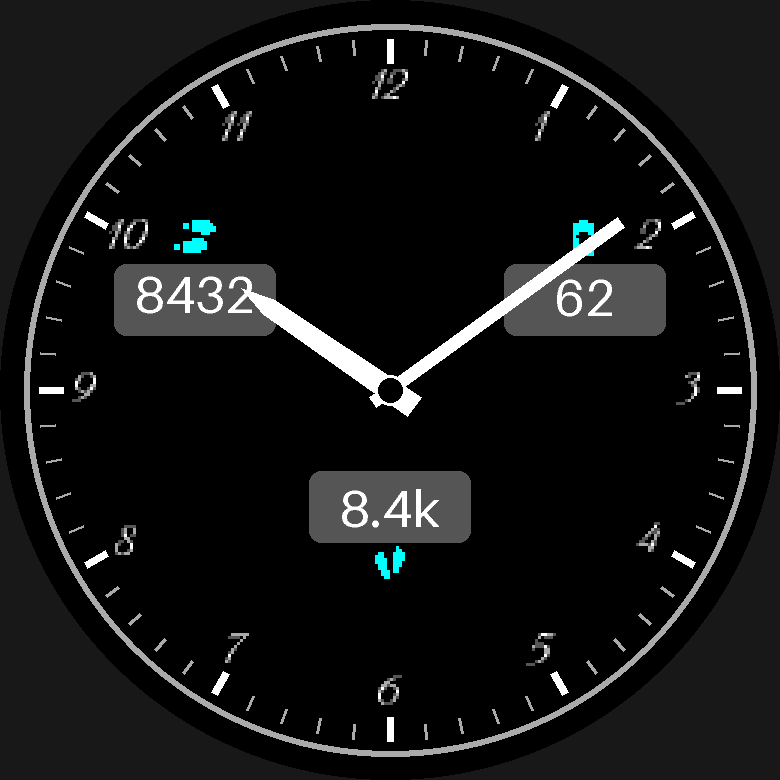
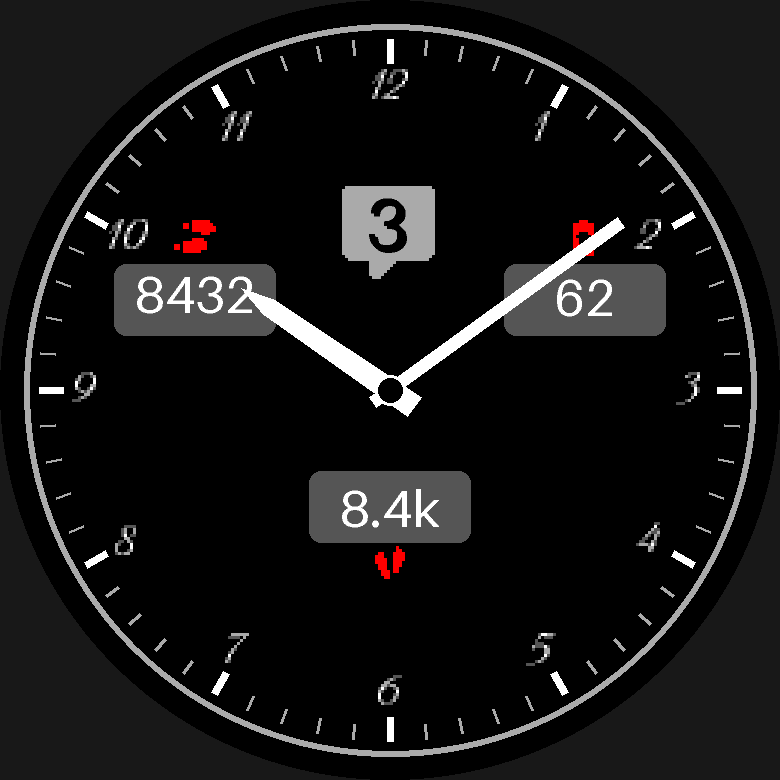
readme-shots: set variant defaults by key, not by text
The showcase's accent and data colour defaults are now both palette.red,
so a text swap could no longer find or tell them apart. The script now
edits a YAML copy by config key and refuses a value that is not one of
the axis's choices or is already its default. Screenshots regenerated for
the new colours, the Crimson style and the analog notification badge;
the README's config and steps_value snippets follow the design.

diff --git a/tools/readme-shots.py b/tools/readme-shots.py
@@ -7,6 +7,7 @@ showcase does not.  Run from the repo root:
 
     ./.venv/bin/python tools/readme-shots.py
 """
+import io
 import shutil
 import subprocess
 import sys
@@ -14,6 +15,7 @@ import tempfile
 from pathlib import Path
 
 from PIL import Image
+from ruamel.yaml import YAML
 
 ROOT = Path(__file__).resolve().parent.parent
 DESIGN = ROOT / "examples/showcase/face.yaml"
@@ -42,17 +44,40 @@ EXAMPLES = {
     "analog-styles": ("analog", ["--all-styles"]),
 }
 
-# On-device editor variants: each is a set of textual swaps applied to a
-# throwaway copy of the design, so face.yaml itself is never touched.
+# On-device editor variants: each sets `config:` defaults, by key, in a
+# throwaway copy of the design, so face.yaml itself is never touched.  A
+# value must be one of that axis's `choices:` (or the axis `choices: any`),
+# so a variant that no longer fits the design fails with the reason.
 VARIANTS = [
     {},
-    {"default: palette.orange": "default: palette.lime_green",
-     "default: palette.cyan": "default: palette.magenta",
-     "default: complication.steps": "default: complication.heart_rate"},
-    {"default: palette.orange": "default: palette.magenta",
-     "default: palette.cyan": "default: palette.amber",
-     "default: complication.body_battery": "default: complication.calories"},
+    {"accent_color": "palette.lime_green",
+     "data_color": "palette.magenta",
+     "data.left_register": "complication.heart_rate"},
+    {"accent_color": "palette.magenta",
+     "data_color": "palette.amber",
+     "data.right_register": "complication.calories"},
 ]
+
+
+def with_defaults(text, defaults):
+    """``text`` (a design) with each ``config:`` axis's default replaced."""
+    yaml = YAML()
+    yaml.preserve_quotes = True
+    doc = yaml.load(text)
+    for path, value in defaults.items():
+        axis = doc["config"]
+        for key in path.split("."):
+            axis = axis[key]
+        choices = axis["choices"]
+        names = [c["type"] if isinstance(c, dict) else c for c in choices]
+        if choices != "any" and value not in names:
+            sys.exit(f"variant: {value} is not a choice of config.{path}: {names}")
+        if value == axis["default"]:
+            sys.exit(f"variant: {value} is already config.{path}'s default")
+        axis["default"] = value
+    out = io.StringIO()
+    yaml.dump(doc, out)
+    return out.getvalue()
 
 
 def render(style, extra, dest, design=DESIGN):
@@ -84,15 +109,11 @@ def main():
             OUT / "showcase-styles.png", optimize=True)
         print(f"wrote {OUT.relative_to(ROOT)}/showcase-styles.png")
         panels = []
-        for i, swaps in enumerate(VARIANTS):
+        for i, defaults in enumerate(VARIANTS):
             copy = Path(tmp) / f"variant{i}"
-            shutil.copytree(DESIGN.parent, copy,
-                            ignore=shutil.ignore_patterns("screenshots"))
-            text = DESIGN.read_text()
-            for old, new in swaps.items():
-                assert old in text, old
-                text = text.replace(old, new, 1)
-            (copy / DESIGN.name).write_text(text)
+            shutil.copytree(DESIGN.parent, copy)
+            (copy / DESIGN.name).write_text(
+                with_defaults(DESIGN.read_text(), defaults))
             panels.append(Image.open(render(
                 "digital_dark", ["--scale", "2"], copy / "out", copy / DESIGN.name)))
         strip = Image.new("RGB", (sum(p.width for p in panels), panels[0].height))

diff --git a/README.md b/README.md
@@ -179,7 +179,7 @@ steps_cluster:
   children:
     steps_icon:  { type: icon, icon: steps, size: 9%r, at: { anchor: left }, align: left }
     steps_value: { type: text, value: "activity.steps / 1000.0", format: "{:.1f}k",
-                   font: FONT_XTINY, at: { anchor: right }, align: right }
+                   font: FONT_XTINY, at: { anchor: left, dx: 13%r }, align: left }
 
 steps_bar:
   type: progress
@@ -278,8 +278,8 @@ config:
     choices:
       analog_dark:  { label: "Analog · Dark",  layout: analog,  colors: dark }
       digital_dark: { label: "Digital · Dark", layout: digital, colors: dark }
-  accent_color: { default: palette.orange, choices: [palette.orange, palette.lime_green, ...] }
-  data_color:   { default: palette.cyan,   choices: [palette.cyan, palette.magenta, ...] }
+  accent_color: { default: palette.red, choices: [palette.red, palette.lime_green, ...] }
+  data_color:   { default: palette.red, choices: [palette.red, palette.magenta, ...] }
   data:
     left_register:
       default: complication.steps
